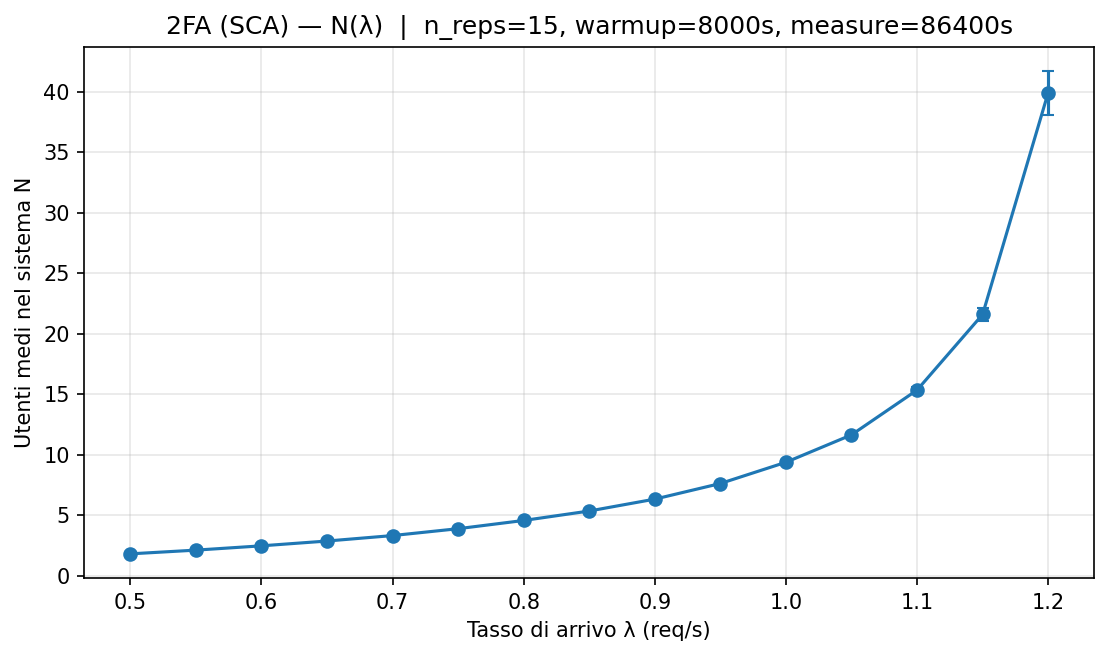
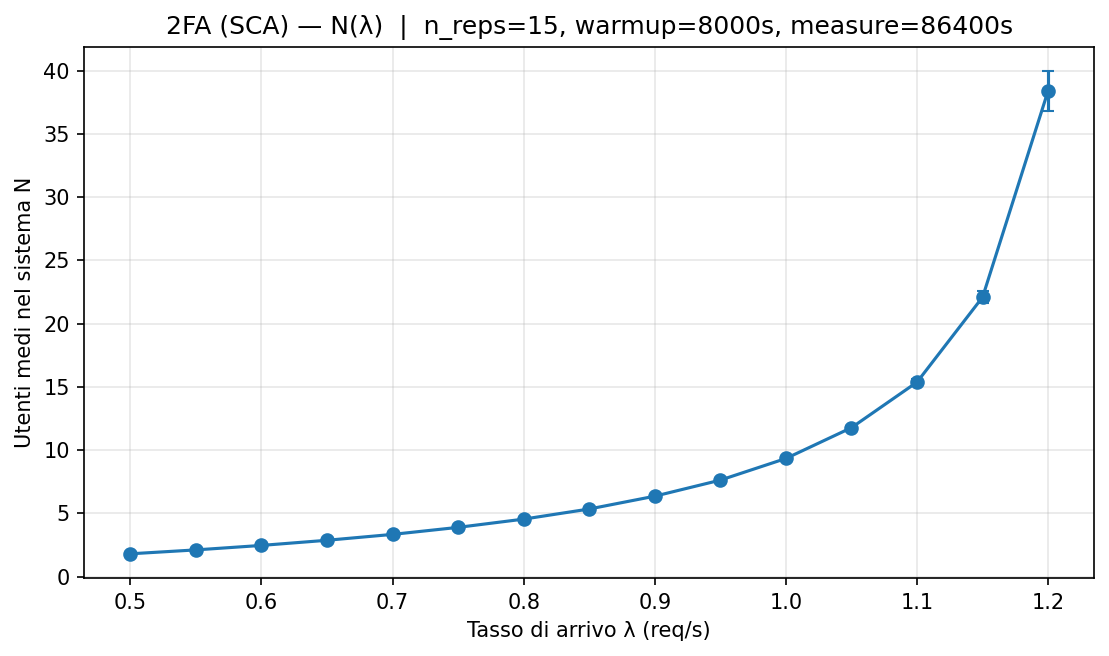
Add 1FA dist scenario and improve service demand handling
Added new config file for 1FA (base) with hyperexp arrivals and mixed service distributions. Improved service demand sampling in model/ecommerce.py to handle mean values and debug output. Updated service_dist.py to return 0 for non-positive means in Erlang and Lognormal sampling. Updated scenario configs and moved them to scenarios/. Deleted obsolete output CSV files and updated several plot images.

diff --git a/model/ecommerce.py b/model/ecommerce.py
@@ -59,6 +59,7 @@ class EcommerceModel:
             use_stream("arrivals")  # seleziona lo stream definito in rng_setup.STREAMS["arrivals"]
             # iat = Exponential(mean_iat)  # estrae l'inter-arrivo esponenziale con media 1/λ
             if self.scenario.arrival_process == "exp":
+                #stampa di debug
                 iat = Exponential(mean_iat)
             elif self.scenario.arrival_process == "hyperexp":
                 iat = HyperExp2Balanced(mean_iat, p=0.10)
@@ -87,29 +88,33 @@ class EcommerceModel:
         campiona Exp(mean = D_s) dove D_s è nello Scenario per (stazione, class_id).
         Lo switch di stream RNG è "safe": se lo stream dedicato non esiste, ripiega.
         """
+        #print debug
+        mean = float(self.scenario.service_demands.get(sname).get(class_id))
+        print(class_id,mean)
         kindA=self.scenario.service_dist.get("A")
         kindB=self.scenario.service_dist.get("B")
         kindP=self.scenario.service_dist.get("P")
+
         d=0.0;
 
         if sname=="A":
             if kindA == "exp":
                 d = self._exp_demand(sname, class_id)
             elif kindA == "erlang":
-                mean = float(self.scenario.service_demands.get(station, {}).get(class_id, 0.0))
+                mean = float(self.scenario.service_demands.get(sname).get(class_id))
                 d = service_dist.demand_erlang(mean,3)
 
         if sname=="B":
             if kindB == "exp":
                 d = self._exp_demand(sname, class_id)
             elif kindB == "lognorm":
-                mean = float(self.scenario.service_demands.get(station, {}).get(class_id, 0.0))
-                d = service_dist.demand_lognormal(mean,3)
+                mean = float(self.scenario.service_demands.get(sname).get(class_id))
+                d = service_dist.demand_lognormal(mean,2)
         if sname=="P":
             if kindP == "exp":
                 d = self._exp_demand(sname, class_id)
             elif kindP == "erlang":
-                mean = float(self.scenario.service_demands.get(station, {}).get(class_id, 0.0))
+                mean = float(self.scenario.service_demands.get(sname).get(class_id))
                 d = service_dist.demand_erlang(mean,3)
         if d <= 0.0:
             return

diff --git a/rndbook/service_dist.py b/rndbook/service_dist.py
@@ -46,6 +46,8 @@ def demand_erlang(mean: float, k: int) -> float:
     """
     Estrae un campione Erlang-k con media 'mean' e SCV=1/k.
     """
+    if mean <= 0.0:
+        return 0.0
     n, b = erlang_params_from_mean(mean, k)
     return Erlang(n, b)
 
@@ -69,6 +71,8 @@ def demand_lognormal(mean: float, c2: float) -> float:
     """
     Estrae un campione Lognormale con media 'mean' e SCV 'c2' (>1).
     """
+    if mean <= 0.0:
+        return 0.0
     mu, sigma = lognormal_params_from_mean_scv(mean, c2)
     return Lognormal(mu, sigma)
 

diff --git a/main.py b/main.py
@@ -178,7 +178,7 @@ def run_phase_steady(config_dir: str = DEFAULT_CONFIG_DIR) -> None:
 
 # ------------------------------- ENTRYPOINT ----------------------------------
 #commento per evitare questa funzione
-''' 
+
 def _choose_mode_via_io() -> tuple[str, str]:
 
     parser = argparse.ArgumentParser(description="Selezione della fase da eseguire")

diff --git a/view/validation_plot_R_and_N.py b/view/validation_plot_R_and_N.py
@@ -149,6 +149,7 @@ def sweep_R_and_N_vs_lambda(
             n_reps=n_reps, measure_s=measure_s, warmup_s=warmup_s,
             seed0=seed0, min_completed=min_completed
         )
+
         R_means.append(meanR)
         R_errs.append(hwR)
         R_ns.append(n_eff)
